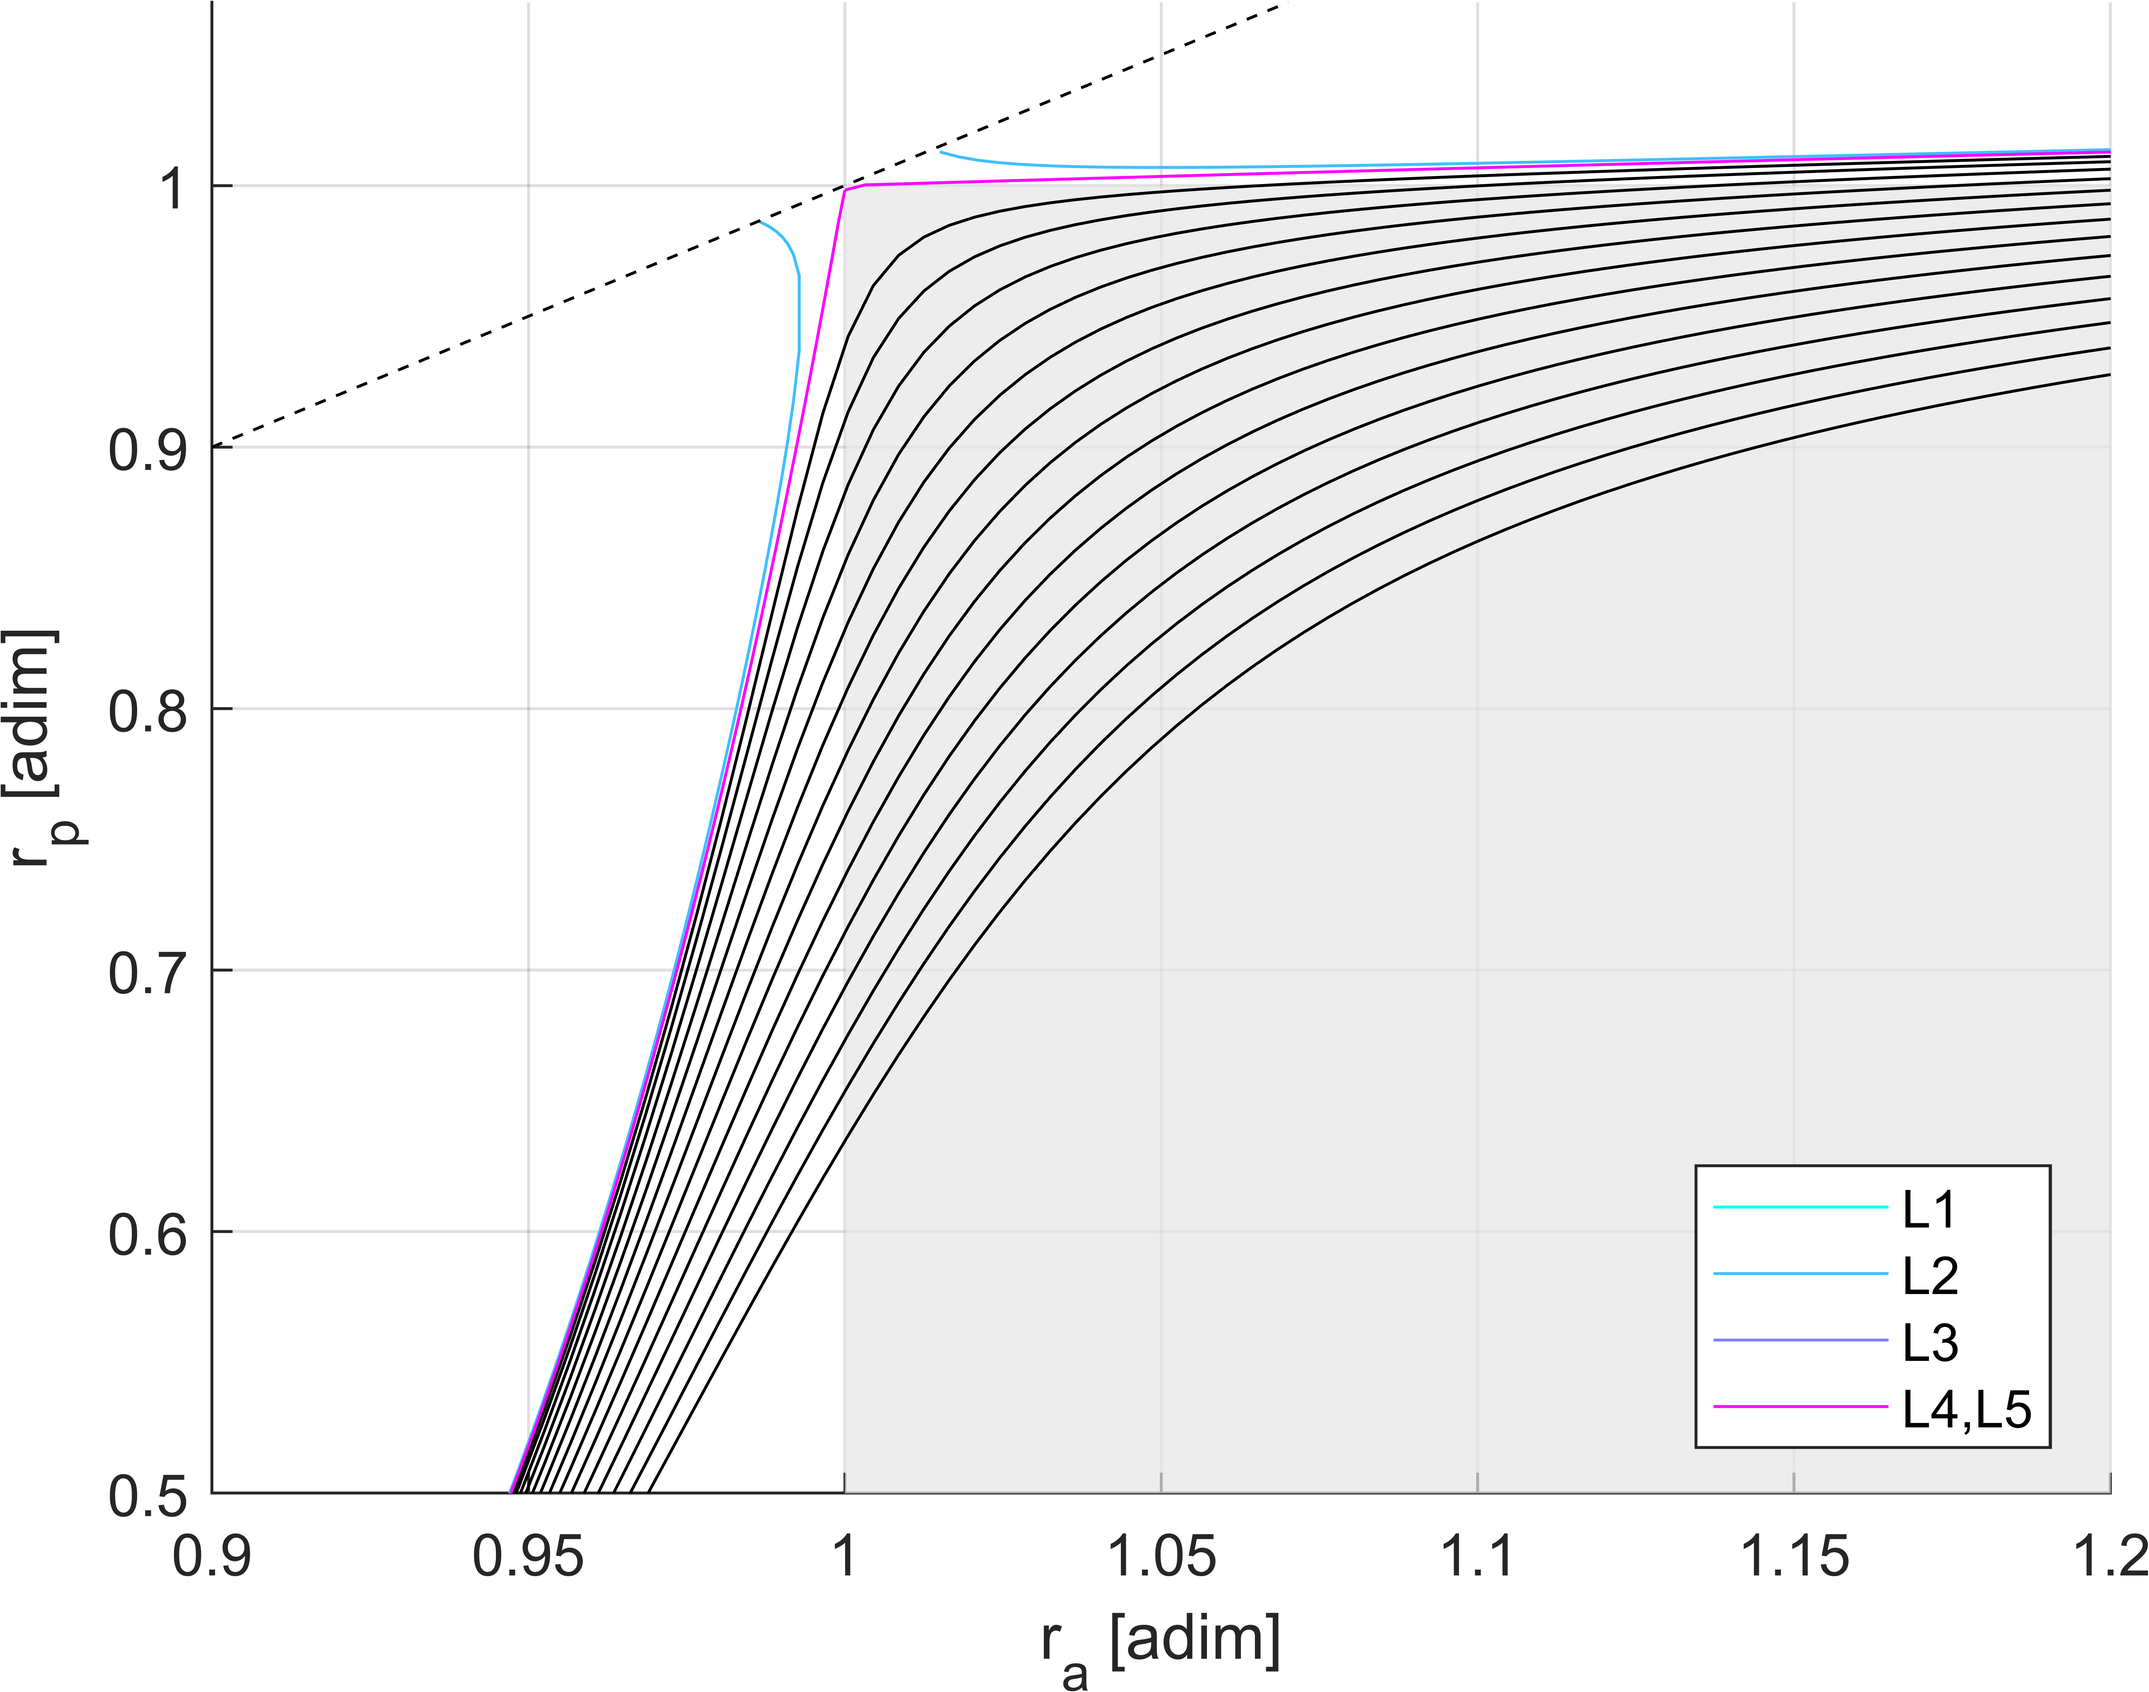
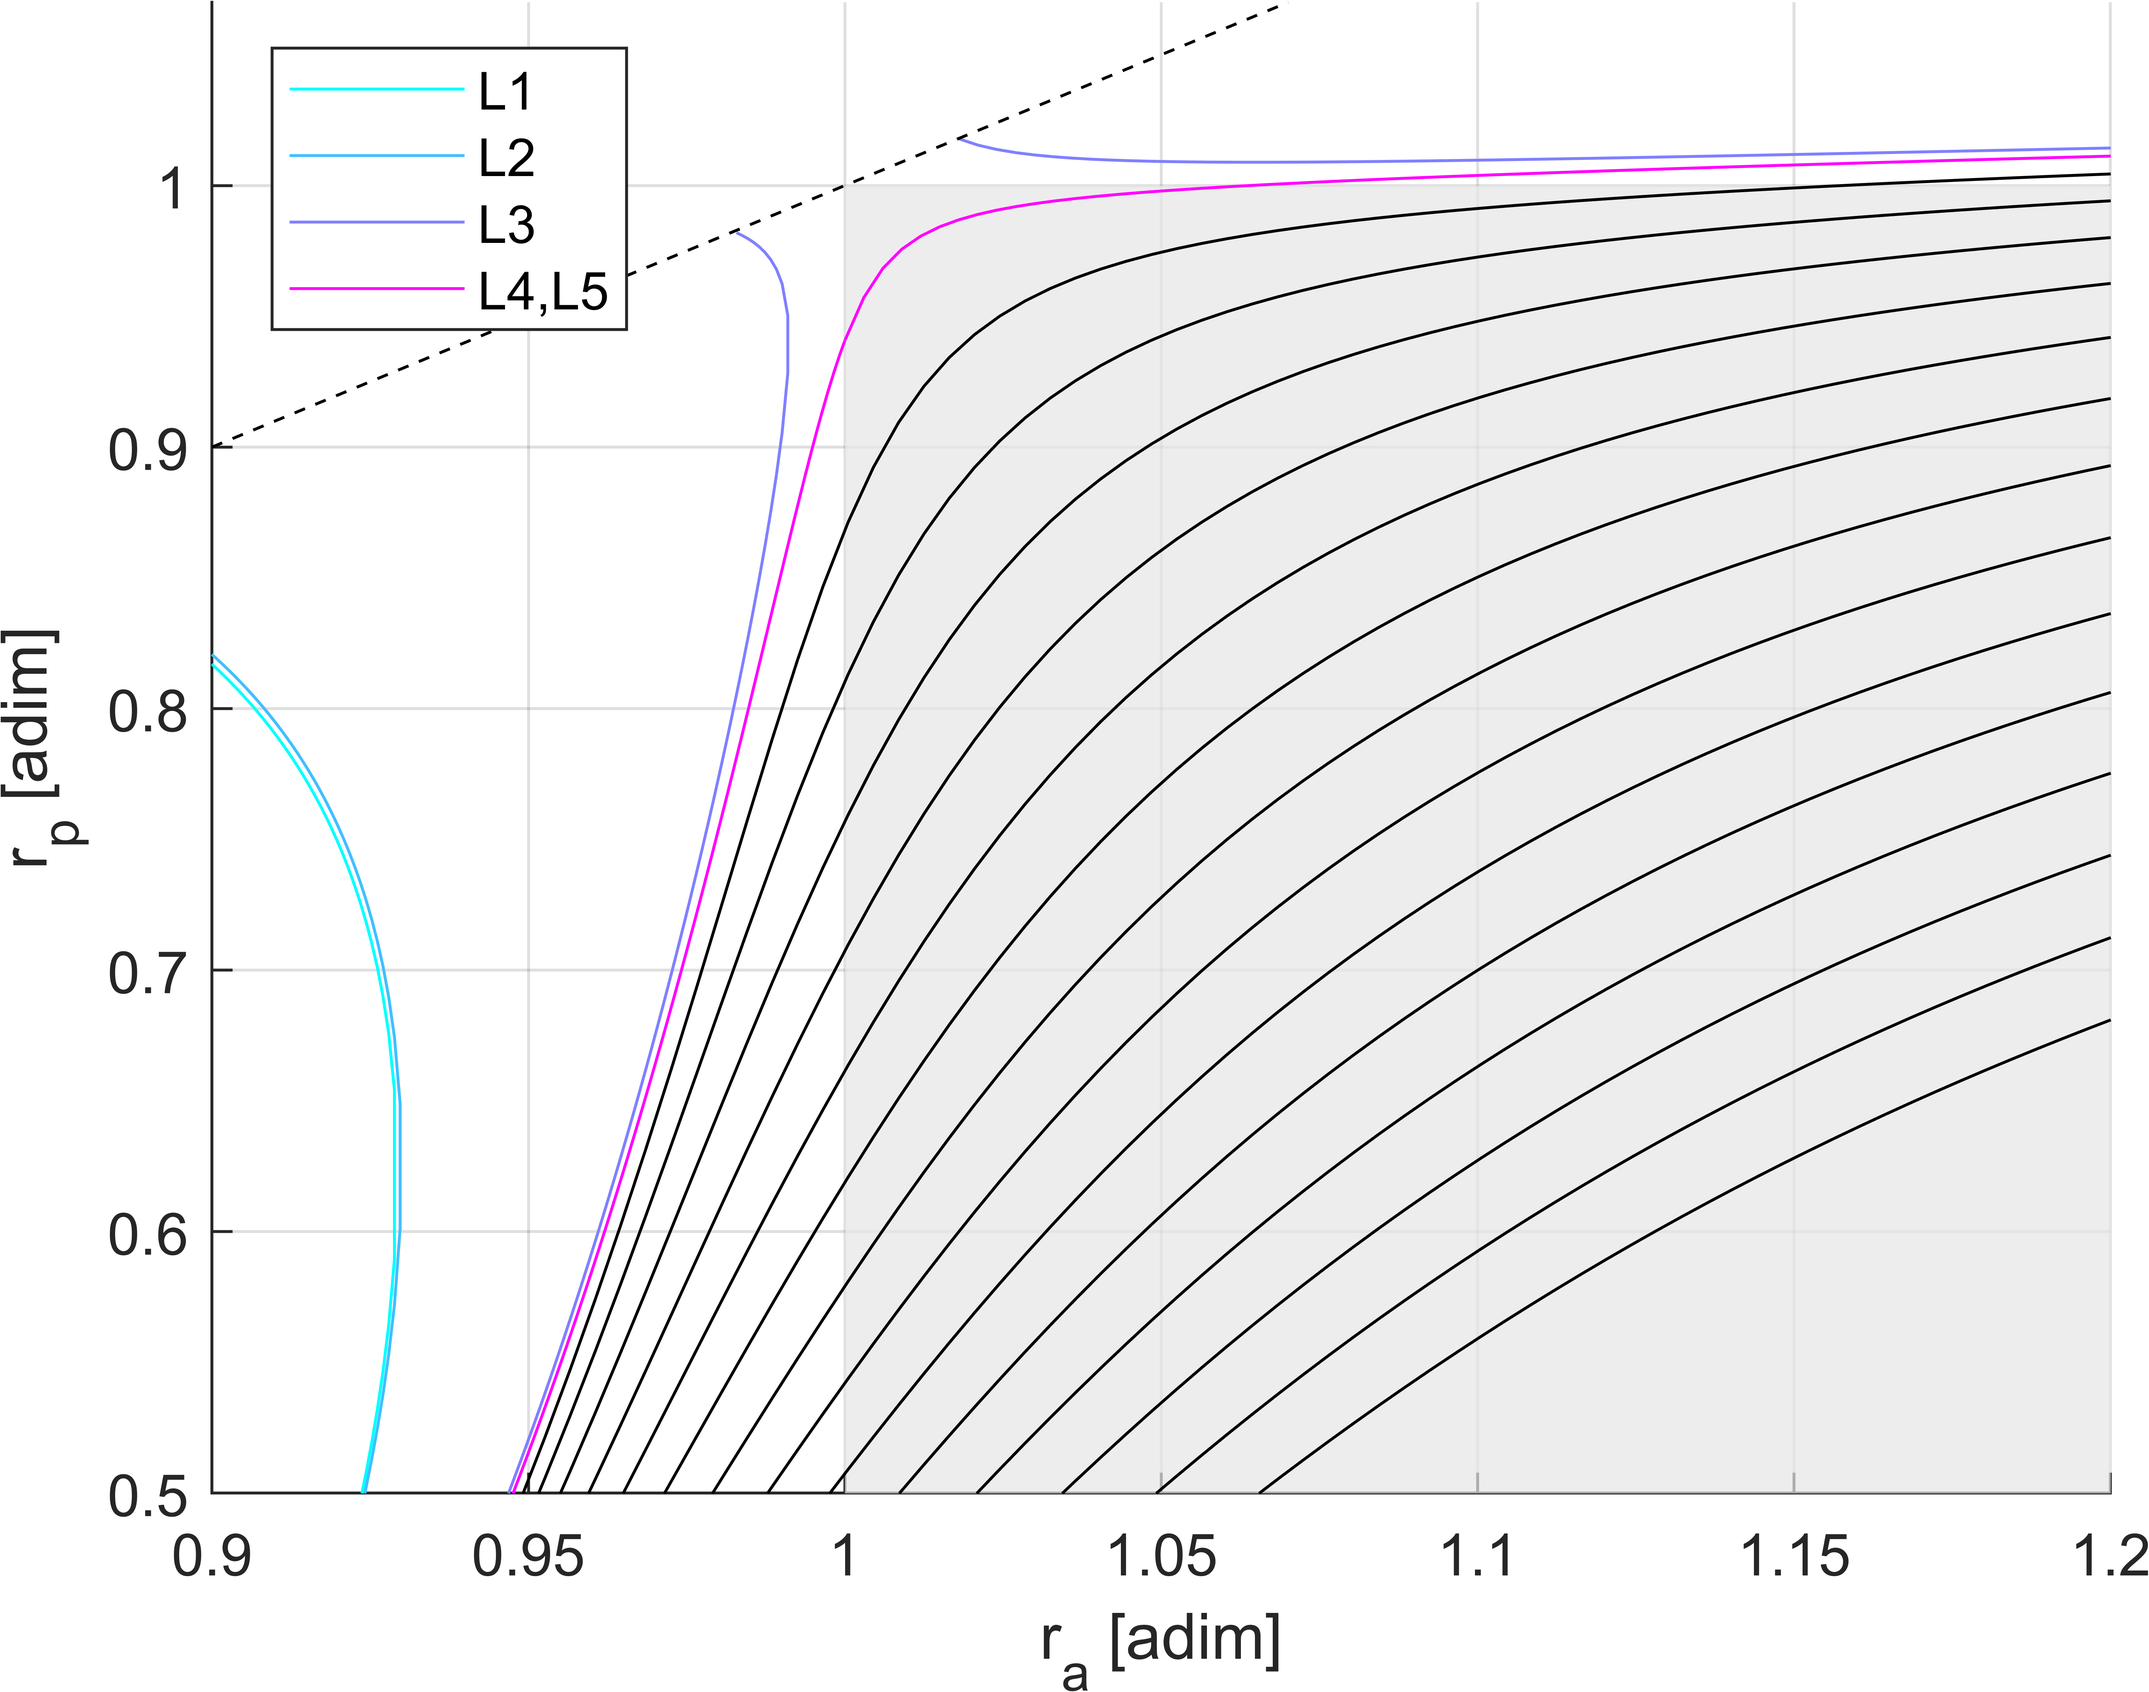
upd tp graph

diff --git a/st0_2_plot_tisserand_poincare_graph.m b/st0_2_plot_tisserand_poincare_graph.m
@@ -6,7 +6,7 @@ addpath(genpath([pwd '/AUTOMATE']));
 
 % --> set the constants
 idcentral  = 6; % --> central body (Saturn in this case)
-idMoon     = 1; % --> flyby body (Enceladus in this case)
+idMoon     = 5; % --> flyby body (Enceladus in this case)
 
 % --> norm. var. CR3BP
 strucNorm = wrapNormCR3BP(idcentral, idMoon);
@@ -18,6 +18,16 @@ npoints    = 1e3;             % --> number of points to plot contours
 
 % --> plot the Tisserand-Poincare graph
 fig2 = plot_tp_graph(idcentral, idMoon, vinfLevDIM, ramaxAdim, npoints);
+
+% --> plot here the Tisserand graph contours (uncomment to use it)
+% vinflevels = [ 3:0.05:5 ];
+% plotContours(1, vinflevels, idcentral, 1, 1, [],  strucNorm.normDist);
+
+% --> adjust the axes accordingly
+ylim( [0 0.8] );
+xlim( [0 1.5] );
+
+% --> plot some points from Task 2 solutions at Enceladus on TP Graph (...)
 
 % --> adjust the axes accordingly
 ylim( [0.5 1.07] );
